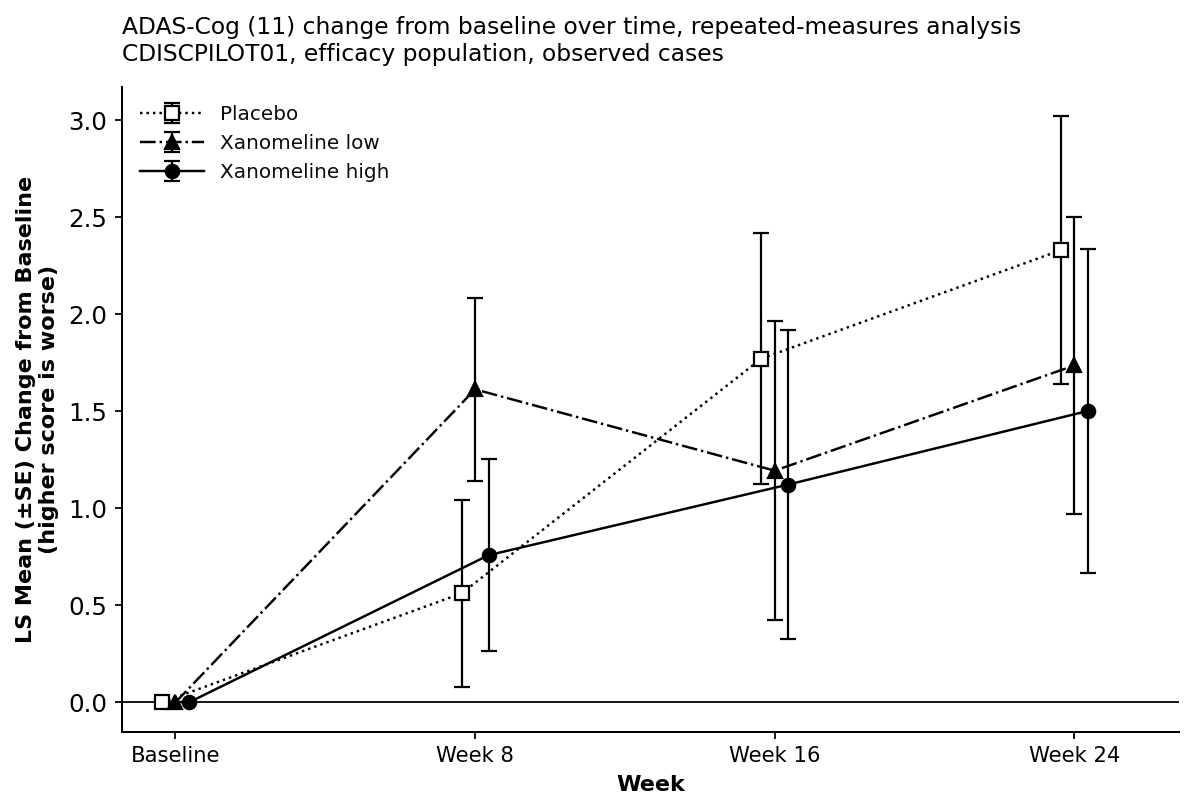
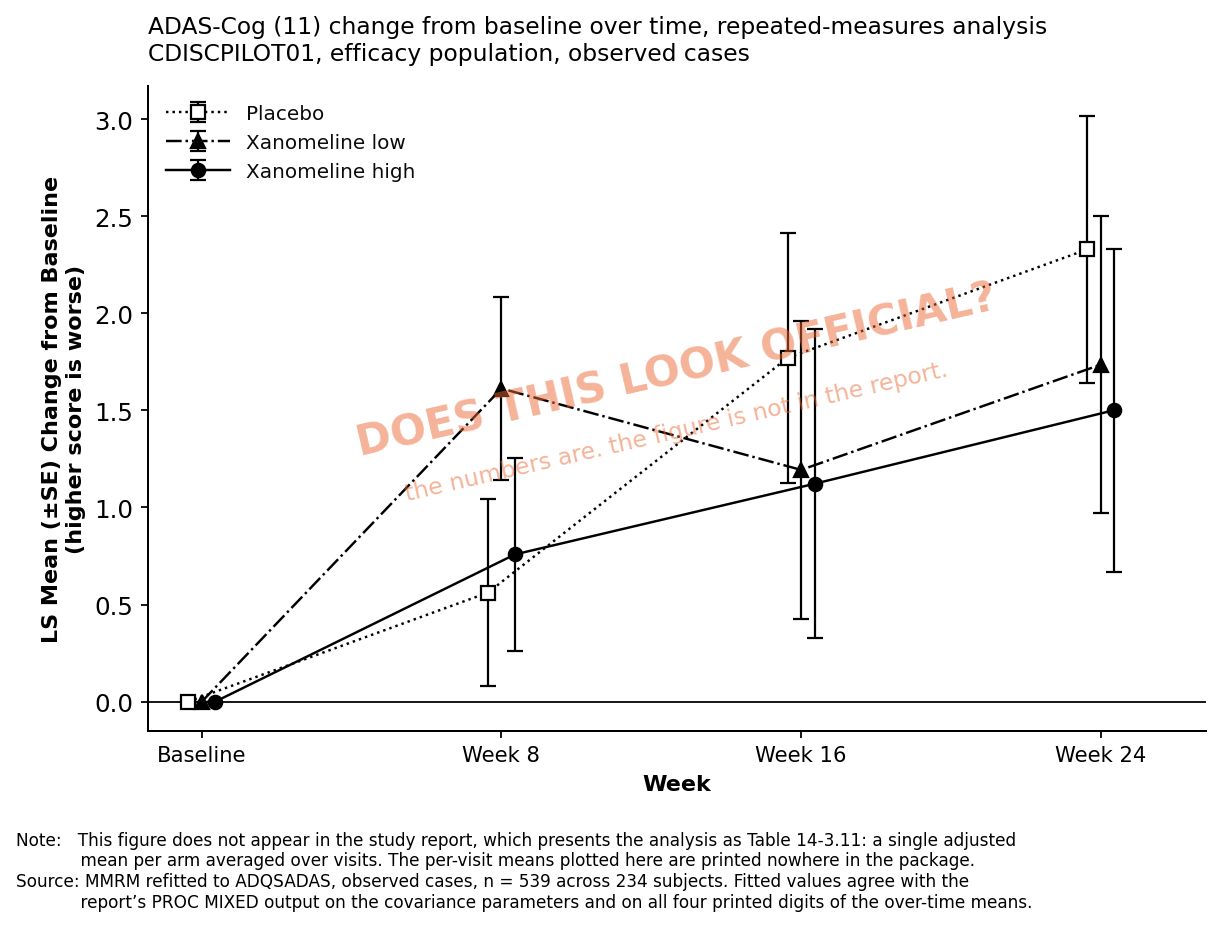
post format change and figure watermark added

diff --git a/_sass/_custom.scss b/_sass/_custom.scss
@@ -342,11 +342,54 @@ hr {
 
 /**
  * Tables. Prose cells wrap on their own, but a wide table on a narrow screen should scroll
- * inside its own box rather than widening the page.
+ * inside its own box rather than widening the page. Centred rather than flush left, since
+ * `width: fit-content` otherwise pins a narrow table to the left margin.
  */
 .post-content table {
   display: block;
   width: fit-content;
   max-width: 100%;
+  margin-left: auto;
+  margin-right: auto;
   overflow-x: auto;
+}
+
+/**
+ * Figure captions. A paragraph tagged `{: .figure-caption}` immediately after an image:
+ * smaller, centred, and pulled up tight against the figure so the two read as one unit.
+ * The negative top margin cancels the image's own bottom margin, which is sized for a
+ * figure standing on its own.
+ */
+.post-content .figure-caption {
+  margin: -1.05em auto 2.3em;
+  max-width: 100%;
+  font-size: $base-font-size * 0.82;
+  line-height: 1.34;
+  color: $grey-color;
+  text-align: center;
+}
+
+/**
+ * A hairline round the plate itself, so a figure reads as a contained block. Held to the text
+ * column like everything else on the page, so it lines up with the prose above and below it
+ * rather than reaching past them.
+ */
+.post-content p > img {
+  max-width: 100%;
+  border: 1px solid #e8e6e0;
+  padding: 12px;
+  background: #fff;
+  box-sizing: border-box;
+}
+
+/**
+ * Table captions sit above the table they describe, in the same register as figure captions.
+ */
+.post-content .table-caption {
+  margin: 2em auto 0.6em;
+  max-width: 100%;
+  font-size: $base-font-size * 0.82;
+  line-height: 1.34;
+  color: $grey-color;
+  text-align: center;
 }

diff --git a/_posts/2026-08-16-clinical-trial-data-rebuild-the-primary-endpoint.md b/_posts/2026-08-16-clinical-trial-data-rebuild-the-primary-endpoint.md
@@ -17,10 +17,10 @@ names will still line up, because lining up names is what the standard is for. W
 underneath them was decided one protocol at a time.
 
 **The short version:** those decisions are written down, every one of them, and none of them
-travel with the table. Which subjects count. Which record of a repeated measurement counts.
-What happens when someone stops turning up. What a visit label means. Reproducing the trial's
-own published answer checks that you have read them as they were meant, and only then can you
-tell which your question inherits and which you have to make again.
+travel with the table: which subjects count, which record of a repeated measurement counts,
+what happens to the people who stop turning up. Reproducing the trial's own published answer
+checks that you have read them as they were meant, and only then can you tell which your
+question inherits and which you have to make again.
 
 ## A CDISC submission: study report, SDTM and ADaM datasets, and define.xml linking them
 
@@ -46,6 +46,11 @@ Laid out, with what this package actually holds at each step:
 
 ![How the layers of the submission connect, with counts](/assets/images/clinical_field_notes/adam-how-it-connects.png)
 
+**Figure 1.** The layers of the submission, with the counts this package actually holds.
+Drawn by the [notebook](https://github.com/lecaibio/clinical-data-field-notes/tree/main/03-adam-traceability),
+which downloads the package and counts them.
+{: .figure-caption}
+
 Each layer is derived from the one above it, and narrows as it goes. The questionnaire domain
 alone holds 121,749 collected rows; the analysis dataset built from it holds 12,463; the set
 that feeds the primary endpoint is 234, one per subject in the efficacy population. `define.xml`
@@ -62,17 +67,13 @@ value can only agree if the same subjects were selected, the same record taken p
 missing visits handled the same way, and the same column analyzed. Each quantity that matches
 rules out readings that would have produced something else.
 
-How strict the check can be depends on what the report gives you to compare against. A rounded
-p-value is three digits of agreement. The table around it adds counts, means, standard errors
-and confidence limits. The statistical output printed near the back adds sums of squares to six
-decimal places and adjusted means to eight. This package carries all three levels, and the
-sections below work through them.
-
 The starting point is the study's primary endpoint: change from baseline in ADAS-Cog (11) at
 Week 24. Higher is worse on that scale, so a positive change means the subject declined. The
 report gives a dose-response p-value of 0.245.
 
-Rebuilt from the analysis datasets, against Table 14-3.01 as printed:
+**Table 1.** The primary endpoint rebuilt from the analysis datasets, against Table 14-3.01
+as printed.
+{: .table-caption}
 
 |                                        | report          | rebuilt            |
 | -------------------------------------- | --------------- | ------------------ |
@@ -83,18 +84,23 @@ Rebuilt from the analysis datasets, against Table 14-3.01 as printed:
 | high minus placebo                     | −1.0 (0.84)     | −1.01 (0.84)       |
 | high minus low                         | −0.5 (0.84)     | −0.54 (0.84)       |
 
+That table is the weakest of the three checks this package supports. A rounded p-value is three
+digits of agreement; the table around it adds counts, means, standard errors and confidence
+limits; the statistical output printed near the back adds sums of squares to six decimal places
+and adjusted means to eight. The sections below work through all three.
+
 Getting there took the analysis metadata, the report's footnotes and its printed statistical
 output, read together. The parameter code is given in the metadata's parameter list. The stored
 visit label carries padding that has to be trimmed before a string comparison matches. The model
 specification, including a baseline covariate, is stated in the table's footnote and visible in
 the statistical output printed near the back of the report.
 
-Two of those details can be measured directly. Fitting the model from the analysis metadata
-alone returns 0.2532; fitting it with the baseline covariate stated in the footnote returns
-0.2447, which is the printed 0.245. The adjusted-means statement specifies that the site term be
-averaged by the number of subjects each site contributed rather than weighting all eleven
-equally; applied that way the adjusted means match the printed values to eight decimal places,
-and weighted equally they differ in the second decimal.
+Two decisions in there change the printed answer measurably. Fitting the model from the analysis
+metadata alone returns 0.2532; fitting it with the baseline covariate stated in the footnote
+returns 0.2447, which is the printed 0.245. And the adjusted-means statement specifies that the
+site term be averaged by the number of subjects each site contributed rather than weighting all
+eleven equally; applied that way the adjusted means match the printed values to eight decimal
+places, and weighted equally they differ in the second decimal.
 
 **Neither partial specification raises an error. Both return a number.**
 
@@ -119,12 +125,19 @@ table rather than the graphics, so the picture is built rather than reproduced.
 
 ![ADAS-Cog change from baseline over time, by arm](/assets/images/clinical_field_notes/adam-mmrm-trajectory.png)
 
+**Figure 2.** ADAS-Cog (11) over time, from the repeated-measures model refitted to the
+analysis datasets. The numbers are the report's; the figure is not. No plot like this appears
+in the package, which gives the analysis as a table of over-time means. Refitted and drawn by
+the [notebook](https://github.com/lecaibio/clinical-data-field-notes/tree/main/03-adam-traceability),
+so it can be rebuilt from the downloaded files in about ten seconds.
+{: .figure-caption}
+
 Reading it, for anyone whose instincts come from elsewhere:
 
 All three curves rise, because the disease is progressive and the scale measures deficit. A
 trial like this never asks whether subjects improve, only whether the treated arms climb more
-slowly than placebo. I had arrived with a "did the patient get better" frame, under which the
-figure appears to say the drug failed and so did the placebo, which is not what it says.
+slowly than placebo. Read as a question about improvement, the figure says the drug failed and
+so did the placebo. That is not the question it answers.
 
 At Week 24 both active arms sit below placebo, about a point less worsening, and none of it
 reaches significance: treatment p = 0.8184 in the model, 0.245 for dose response at Week 24,
@@ -138,26 +151,29 @@ per visit nor the reason people left is anywhere on the plot.
 
 ## What "Week 24" selects, and why a label belongs to its question
 
-<mark>A column in an analysis dataset is not a measurement; it is an answer to a question, and
-its name describes the answer.</mark>
-
 The analysis selects `AVISIT == "Week 24"`, and the numbers matched, so the filter is correct.
-Of the 234 rows it selects, **115 were recorded at a visit called Week 24.** The rest come from
-Week 2, Week 4, Week 6, Week 8, Week 12, Week 16, Week 20, a visit called RETRIEVAL, and one
-called AMBUL ECG REMOVAL.
+Of the 234 rows it selects, **115 were recorded at a visit called Week 24.** Another 40 were
+recorded at some other visit, and 79 were not recorded after Week 8 at all.
 
-Two mechanisms put them there, and the dataset states both, in columns sitting beside the ones
-I was reading. An analysis window: `AWRANGE` says `>140`, so any assessment on study day 141 or
-later is the Week 24 analysis point whatever the visit was called. And carry-forward: 79
-subjects stopped coming, so their last observed value stands in.
+Two mechanisms account for that split, and the dataset states both, in columns sitting beside
+the ones being read. An analysis window: `AWRANGE` says `>140`, so any assessment on study day
+141 or later is the Week 24 analysis point whatever the visit was called, which is how a visit
+named RETRIEVAL contributes 37 of those 40. And carry-forward: 79 subjects stopped coming, so
+their last observed value stands in, all of it measured on day 140 or earlier.
 
 `AVISIT` means precisely what it is defined to mean: which analysis timepoint this row
 represents. Every one of those rows genuinely is that subject's Week 24 analysis value, and for
 a carry-forward analysis that is the entire point. It only misleads if you read it as "when was
 this measured", which is a different question, answered by the column next to it.
 
+**A column in an analysis dataset is an answer to a question, and its name describes the
+answer rather than the measurement.**
+
 Once you have that, the same shape is everywhere in the package. Each of these is a decision,
-each deliberate, each recorded, none visible from a column name:
+each deliberate, each recorded, none visible from a column name.
+
+**Table 2.** Decisions taken when the analysis datasets were built, and what each one changes.
+{: .table-caption}
 
 | decision                     | what was chosen                                       | what it does                                                            |
 | ---------------------------- | ----------------------------------------------------- | ----------------------------------------------------------------------- |
@@ -172,8 +188,8 @@ each deliberate, each recorded, none visible from a column name:
 ## Two questions, two tables
 
 The trial demonstrates this before any ML reader arrives. It asked two questions about the same
-endpoint, and needed two tables to answer them: **the primary endpoint analysis runs on 234
-rows, one per subject with values carried forward, and the MMRM runs on 539, observed only.**
+endpoint, and needed two tables to answer them: the primary endpoint analysis runs on 234
+rows, one per subject with values carried forward, and the MMRM runs on 539, observed only.
 Same study, same column, same six months, two questions, two datasets.
 
 Now take two questions an ML practitioner might bring to it.
@@ -191,25 +207,24 @@ feature, because all 234 subjects have an observed Week 8 and all 116 of the eve
 were still present for it. And the carry-forward that was acceptable in the first question is
 now fatal, since the imputed value is a direct function of the thing being predicted.
 
-Same package. Two questions. Two different tables, two different row counts, and a column that
-is poison in one and the label in the other.
+One column, `TRTDUR`, is leakage in the first question and the label in the second. That is why
+the sorting into technical, result and feature is worth having, and why the sort belongs to a
+column and a question together. What the metadata gives you is timing and derivation. Your
+question decides the role, and the trial cannot decide it for you, because it was busy answering
+its own.
 
-This is why the sorting I did into technical, result and feature is worth having, and why
-**the sort is not a property of the columns but of a column and a question together.** What the
-metadata gives you is timing and derivation. Your question decides the role, and the trial
-cannot decide it for you, because it was busy answering its own.
+Which is the shape of the pooling problem from the top of this post. Five trials give you five
+sets of these decisions, and the column names will agree regardless.
 
 ## Take-aways before you model clinical trial data
 
-- **The data was shaped by a question, and the shape does not travel with the table.** Which
-  subjects, which record, what a label means, what happens to people who left.
-- **Reproducing the published results tests your reading of those decisions.** The more
+- **Reproducing the published results tests your reading of the trial's decisions.** The more
   quantities match, and to more digits, the fewer wrong readings survive.
 - **A partial reading returns a number, not an error.** The specification is spread across the
   metadata, the footnotes and the printed output, and using part of it still computes.
 - **A label can be correct and still not mean what you assumed.** "Week 24" is a window plus a
   carry-forward rule, so only 115 of the 234 rows were measured at Week 24.
-- **There is no context-free feature table.** Two questions on one study need two tables. Five
+- **There is no context-free feature table.** Two questions on one study need two tables; five
   studies pooled need five sets of decisions checked before the columns can be stacked.
 
 The table at the end is the artifact, but the trace back is the method, and the method is
